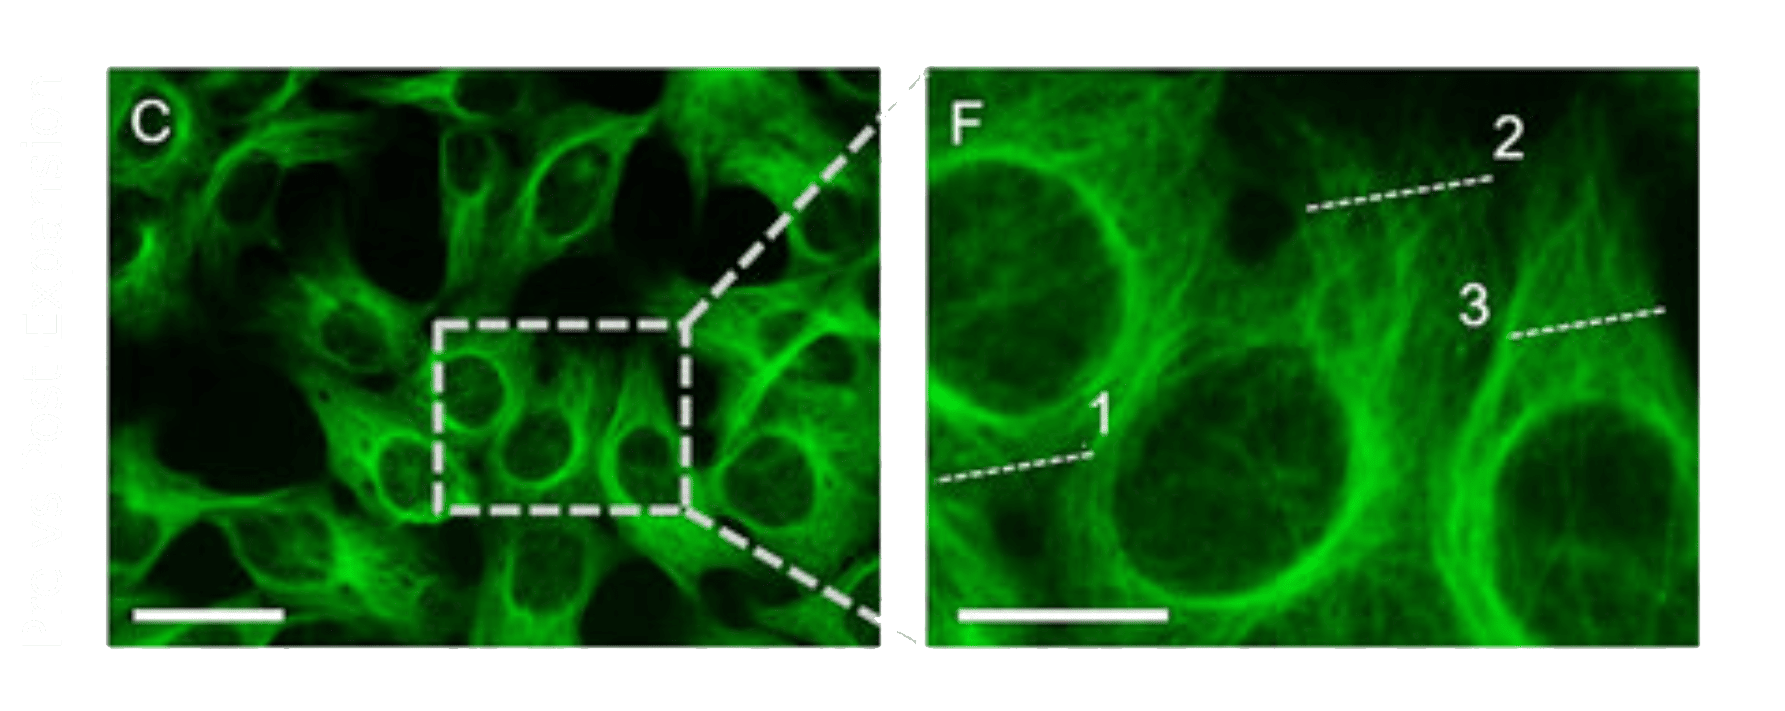
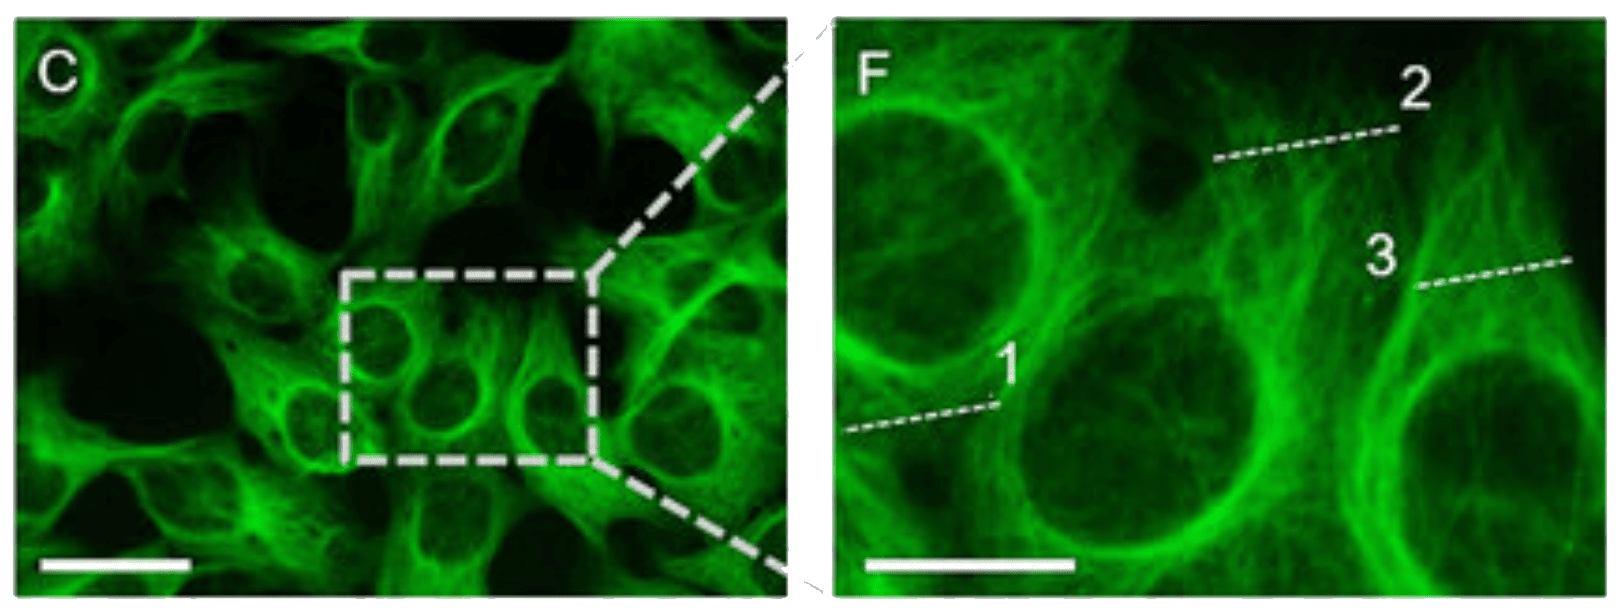
eddit text

diff --git a/_duality-research/connectomics.md b/_duality-research/connectomics.md
@@ -49,7 +49,7 @@ Alternatively to using very expensive and slow electron microscopes (~$2M per pi
 <p align="center"><img src="/images/exm.png" alt="Alt text" style="max-width: 80%; height: auto; border-radius: 10px;"></p>
 <div style="width: 80%; margin: auto; text-align: center;">
 </div>
-<p align="center"><img src="/images/exm_results.png" alt="Alt text" style="max-width: 90%; height: auto; border-radius: 10px;"></p>
+<p align="center"><img src="/images/exm_results.png" alt="Alt text" style="max-width: 80%; height: auto; border-radius: 10px;"></p>
 <div style="width: 80%; margin: auto; text-align: center;">
   <p><b>Figure 1:</b>Pre v/s  Post - Expansion Microsope imaging.</p>
 </div><br>
